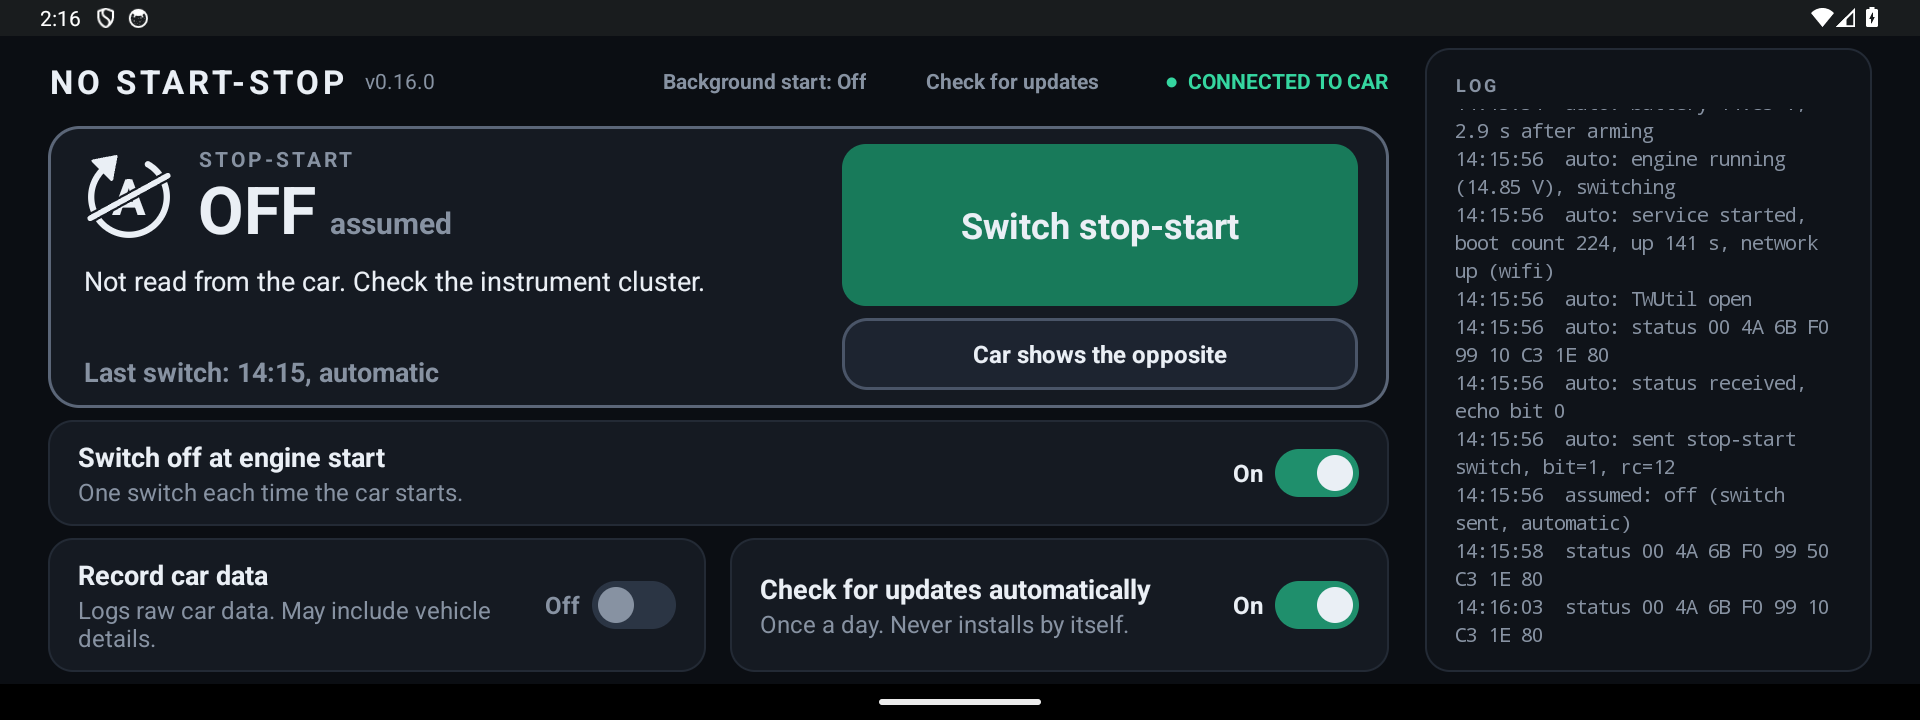
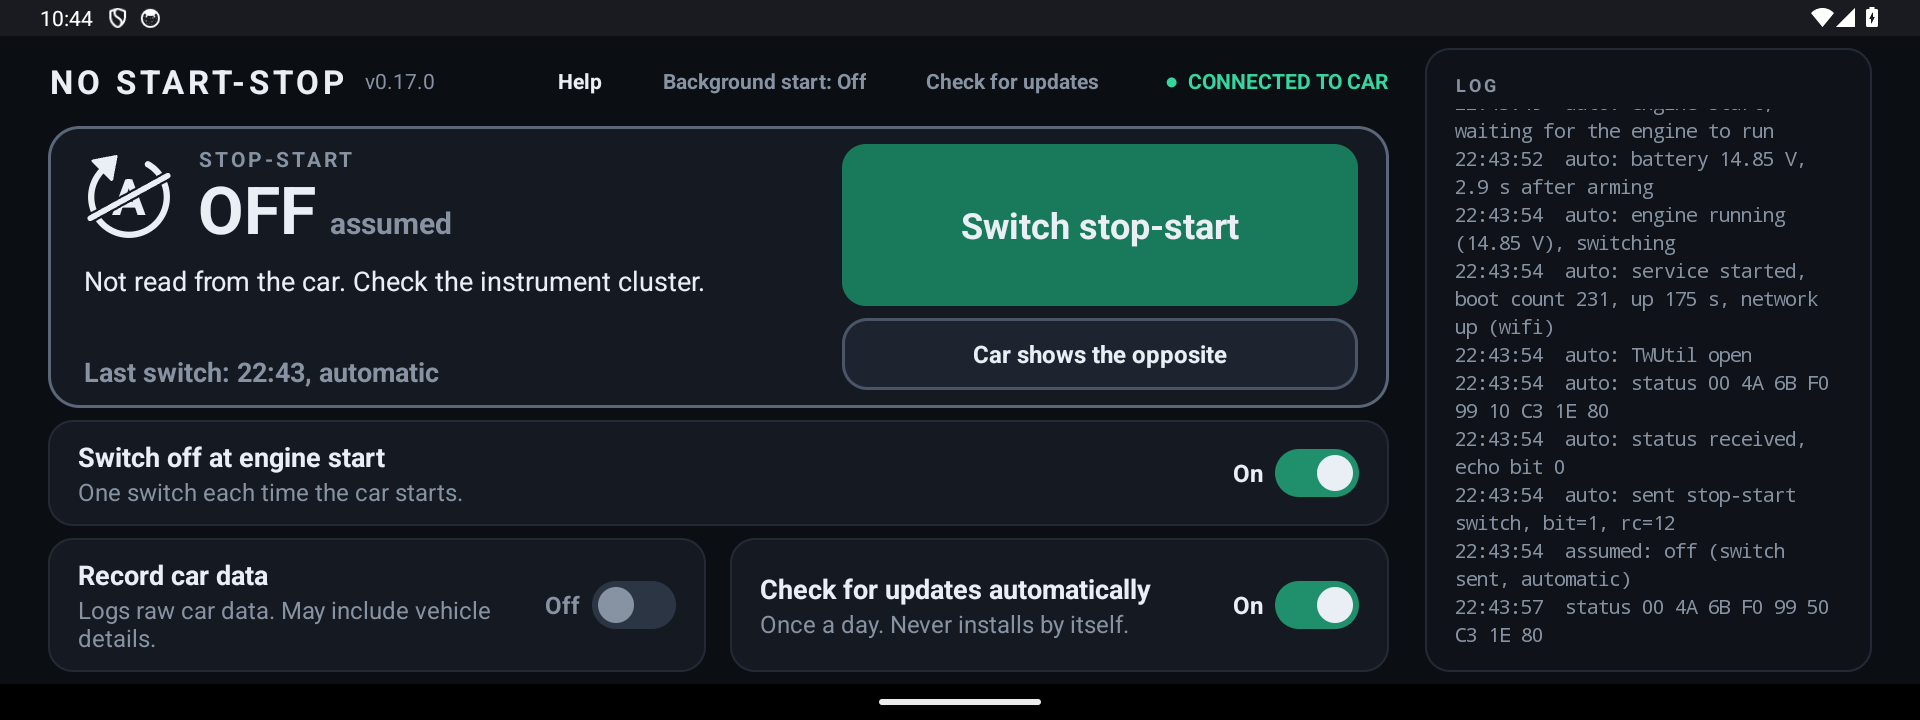
Add a Help screen that explains the controls and the status lines

diff --git a/src/com/furgo/nostartstop/HelpActivity.java b/src/com/furgo/nostartstop/HelpActivity.java
@@ -1,0 +1,255 @@
+package com.furgo.nostartstop;
+
+import android.app.Activity;
+import android.graphics.Typeface;
+import android.graphics.drawable.GradientDrawable;
+import android.os.Bundle;
+import android.util.TypedValue;
+import android.view.Gravity;
+import android.view.View;
+import android.view.Window;
+import android.widget.FrameLayout;
+import android.widget.LinearLayout;
+import android.widget.ScrollView;
+import android.widget.TextView;
+
+import java.util.Locale;
+
+/** What the controls and the status lines of the main screen mean. Text only, readable with no network. */
+public class HelpActivity extends Activity {
+    private static final int BG = 0xFF0B0E13;
+    private static final int CARD = 0xFF151A22;
+    private static final int CARD_EDGE = 0xFF232A35;
+    private static final int TEXT = 0xFFEAEFF5;
+    private static final int MUTED = 0xFF8792A2;
+    private static final int ACCENT = 0xFF35D6A0;
+    private static final int WARN = 0xFFFFB02E;
+    private static final int OFF_EDGE = 0xFF5B6678;
+    private static final int NEUTRAL = 0xFF1D2430;
+    private static final int NARROW_DP = 900;
+
+    private float density;
+    private boolean narrow;
+
+    @Override
+    protected void onCreate(Bundle savedInstanceState) {
+        super.onCreate(savedInstanceState);
+        requestWindowFeature(Window.FEATURE_NO_TITLE);
+        density = getResources().getDisplayMetrics().density;
+        narrow = getResources().getConfiguration().screenWidthDp < NARROW_DP;
+        setContentView(build());
+    }
+
+    private View build() {
+        LinearLayout page = new LinearLayout(this);
+        page.setOrientation(LinearLayout.VERTICAL);
+        page.setPadding(dp(narrow ? 16 : 32), dp(8), dp(narrow ? 16 : 32), dp(16));
+
+        LinearLayout header = new LinearLayout(this);
+        header.setGravity(Gravity.CENTER_VERTICAL);
+        header.setMinimumHeight(dp(44));
+        TextView title = text("HELP", 22, TEXT, true);
+        title.setLetterSpacing(0.12f);
+        header.addView(title, new LinearLayout.LayoutParams(0, -2, 1f));
+        TextView close = text("Close", 16, TEXT, true);
+        close.setGravity(Gravity.CENTER);
+        close.setPadding(dp(28), 0, dp(28), 0);
+        close.setBackgroundDrawable(shape(NEUTRAL, 16, 2, OFF_EDGE));
+        close.setOnClickListener(new View.OnClickListener() {
+            @Override
+            public void onClick(View v) {
+                finish();
+            }
+        });
+        header.addView(close, new LinearLayout.LayoutParams(-2, dp(48)));
+        page.addView(header, new LinearLayout.LayoutParams(-1, -2));
+
+        LinearLayout first = column();
+        LinearLayout second = narrow ? first : column();
+        stateCard(first);
+        backgroundStart(first);
+        if (Telemetry.configured()) diagnostics(second);
+        troubleshooting(second);
+
+        if (narrow) {
+            page.addView(first, new LinearLayout.LayoutParams(-1, -2));
+        } else {
+            LinearLayout columns = new LinearLayout(this);
+            columns.addView(first, new LinearLayout.LayoutParams(0, -2, 1f));
+            LinearLayout.LayoutParams secondLp = new LinearLayout.LayoutParams(0, -2, 1f);
+            secondLp.leftMargin = dp(24);
+            columns.addView(second, secondLp);
+            page.addView(columns, new LinearLayout.LayoutParams(-1, -2));
+        }
+
+        final ScrollView scroll = new ScrollView(this);
+        scroll.setBackgroundColor(BG);
+        scroll.addView(page, new FrameLayout.LayoutParams(-1, -2));
+        // The window's real width decides: split screen does not always come with a new configuration.
+        scroll.addOnLayoutChangeListener(new View.OnLayoutChangeListener() {
+            @Override
+            public void onLayoutChange(View v, int l, int t, int r, int b, int ol, int ot, int or, int ob) {
+                if (r > l && (r - l < dp(NARROW_DP)) != narrow) {
+                    narrow = !narrow;
+                    scroll.post(new Runnable() {
+                        @Override
+                        public void run() {
+                            if (!isFinishing()) setContentView(build());
+                        }
+                    });
+                }
+            }
+        });
+        return scroll;
+    }
+
+    private void stateCard(LinearLayout column) {
+        LinearLayout card = card(column, "Stop-start card");
+        para(card, "The car does not report whether stop-start is on. The app works it out: the car turns stop-start on "
+                + "at every engine start, and each switch sent flips it. That is why the card says \"assumed\". "
+                + "The instrument cluster is always right.");
+        item(card, "ON / OFF", "What the app assumes.");
+        item(card, "UNKNOWN", "The app did not follow the ignition: Switch off at engine start is off, the ignition "
+                + "was switched off, the head unit restarted, or the app gets no power messages from the head unit.");
+        item(card, "Switch stop-start", "Sends one switch to the car, the same command as the car's own menu. Check "
+                + "the instrument cluster after it.");
+        item(card, "Started / Stopped", "Shown while the state is unknown. Tap what the instrument cluster shows: "
+                + "Started if stop-start is on, Stopped if it is off. Sends nothing to the car. Greyed out while the app "
+                + "cannot follow the ignition.");
+        item(card, "Car shows the opposite", "Tap it when the instrument cluster disagrees with the card. It flips "
+                + "the shown state and writes a line to the log, up to a daily limit. Sends nothing to the car.");
+    }
+
+    private void backgroundStart(LinearLayout column) {
+        LinearLayout card = card(column, "Background start");
+        para(card, "Lets Android start the app without its screen, when the head unit powers on and after it stopped "
+                + "the app. Switch off at engine start then also works when another app was on screen.");
+        item(card, "Turn it on", "Tap Background start at the top, then Open settings, and allow notification access "
+                + "for No Start-Stop. The app reads no notification; Android starts apps that have this access.");
+        item(card, "What it does then", "A start in the background sends nothing by itself. The app sends its "
+                + "switch after the next engine start it sees.");
+        item(card, "Check that it works", "After a drive where you did not open the app, the log shows "
+                + "\"listener: connected\" and \"watch: service started (by the notification listener)\". Without "
+                + "those lines the head unit does not restart the app: open the app before you drive.");
+        item(card, "\"This head unit does not allow a background start.\"", "Android 10 and older do not give "
+                + "notification access on low-memory units.");
+    }
+
+    private void diagnostics(LinearLayout column) {
+        LinearLayout card = card(column, "Diagnostics line");
+        para(card, "The line under the log shows what happens to the log lines while Share diagnostics is on. "
+                + "Lines are stored on the head unit until there is a network, then sent to the developer.");
+        state(card, 0, "Diagnostics off", "Nothing is stored for sending and nothing is sent.");
+        state(card, ACCENT, "Diagnostics on, nothing waiting", "Nothing was sent since the app started.");
+        state(card, MUTED, "3 lines waiting to send", "They go out in the next batch, a few seconds later.");
+        state(card, ACCENT, "Sending 3 lines…", "A request is on its way. The dot pulses.");
+        state(card, ACCENT, "Sending: 500 of 1240 lines", "A backlog goes out in requests of up to 500 lines. "
+                + "The bar above the line fills as they go.");
+        state(card, ACCENT, "Sent 3 lines at 14:32", "The last batch went out. Then: All sent at 14:32.");
+        state(card, WARN, "Send failed, 1240 lines from 3 days waiting", "No network, or the upload failed. The "
+                + "lines stay stored and go out at the next try. Up to 30 days or 5 MB are kept; past that the "
+                + "oldest days are dropped.");
+    }
+
+    private void troubleshooting(LinearLayout column) {
+        LinearLayout card = card(column, "If something is wrong");
+        item(card, "\"This app may be harmful\" when installing or updating", "Google Play Protect shows this for "
+                + "apps it does not know; this one is not on Google Play. Tap Install anyway. If an update stopped "
+                + "there, tap Install again. To stop the prompt, turn off Scan apps with Play Protect in the Play Store.");
+        item(card, "NO LINK TO CAR", "The app cannot reach the head unit's car interface. The switch button is grey "
+                + "and nothing is sent. It only works on Topway head units.");
+        item(card, "\"No answer from the car.\"", "The switch was sent but not confirmed within 3 seconds. Check the "
+                + "instrument cluster before you tap again: it may have worked. With \"Nothing sent.\" after it, "
+                + "the car gave no status in time and no switch went out.");
+        item(card, "Nothing happens at engine start", "Check that Switch off at engine start is on, and that the app "
+                + "was running: open it once and leave it on screen when you switch the ignition off, or turn "
+                + "Background start on. The log shows \"wake\" and \"auto:\" lines when the app saw the engine start.");
+        item(card, "Stop-start is on though the card says OFF", "Tap Car shows the opposite, then Switch stop-start "
+                + "once.");
+    }
+
+    private LinearLayout column() {
+        LinearLayout c = new LinearLayout(this);
+        c.setOrientation(LinearLayout.VERTICAL);
+        return c;
+    }
+
+    private LinearLayout card(LinearLayout column, String title) {
+        LinearLayout card = new LinearLayout(this);
+        card.setOrientation(LinearLayout.VERTICAL);
+        card.setPadding(dp(24), dp(16), dp(24), dp(20));
+        card.setBackgroundDrawable(shape(CARD, 16, 1, CARD_EDGE));
+        TextView t = text(title.toUpperCase(Locale.ROOT), 13, MUTED, true);
+        t.setLetterSpacing(0.14f);
+        card.addView(t);
+        LinearLayout.LayoutParams lp = new LinearLayout.LayoutParams(-1, -2);
+        lp.topMargin = dp(8);
+        column.addView(card, lp);
+        return card;
+    }
+
+    private void para(LinearLayout card, String body) {
+        TextView v = text(body, 16, TEXT, false);
+        v.setLineSpacing(0, 1.15f);
+        LinearLayout.LayoutParams lp = new LinearLayout.LayoutParams(-1, -2);
+        lp.topMargin = dp(8);
+        card.addView(v, lp);
+    }
+
+    private void item(LinearLayout card, String name, String body) {
+        LinearLayout.LayoutParams nameLp = new LinearLayout.LayoutParams(-1, -2);
+        nameLp.topMargin = dp(14);
+        card.addView(text(name, 16, TEXT, true), nameLp);
+        TextView v = text(body, 15, MUTED, false);
+        v.setLineSpacing(0, 1.15f);
+        LinearLayout.LayoutParams lp = new LinearLayout.LayoutParams(-1, -2);
+        lp.topMargin = dp(2);
+        card.addView(v, lp);
+    }
+
+    /** One state of the diagnostics line, drawn as on the main screen; dot 0 is the ring shown while sharing is off. */
+    private void state(LinearLayout card, int dot, String line, String body) {
+        LinearLayout row = new LinearLayout(this);
+        row.setGravity(Gravity.CENTER_VERTICAL);
+        View d = new View(this);
+        GradientDrawable shape = new GradientDrawable();
+        shape.setShape(GradientDrawable.OVAL);
+        if (dot == 0) shape.setStroke(dp(1.5f), OFF_EDGE);
+        else shape.setColor(dot);
+        d.setBackgroundDrawable(shape);
+        row.addView(d, new LinearLayout.LayoutParams(dp(10), dp(10)));
+        LinearLayout.LayoutParams lineLp = new LinearLayout.LayoutParams(0, -2, 1f);
+        lineLp.leftMargin = dp(10);
+        row.addView(text(line, 16, TEXT, true), lineLp);
+        LinearLayout.LayoutParams rowLp = new LinearLayout.LayoutParams(-1, -2);
+        rowLp.topMargin = dp(14);
+        card.addView(row, rowLp);
+        TextView v = text(body, 15, MUTED, false);
+        v.setLineSpacing(0, 1.15f);
+        LinearLayout.LayoutParams lp = new LinearLayout.LayoutParams(-1, -2);
+        lp.topMargin = dp(2);
+        lp.leftMargin = dp(20);
+        card.addView(v, lp);
+    }
+
+    private TextView text(String s, float sp, int color, boolean bold) {
+        TextView v = new TextView(this);
+        v.setText(s);
+        v.setTextSize(TypedValue.COMPLEX_UNIT_SP, sp);
+        v.setTextColor(color);
+        v.setTypeface(bold ? Typeface.DEFAULT_BOLD : Typeface.DEFAULT);
+        return v;
+    }
+
+    private GradientDrawable shape(int fill, int radiusDp, int strokeDp, int stroke) {
+        GradientDrawable d = new GradientDrawable();
+        d.setColor(fill);
+        d.setCornerRadius(dp(radiusDp));
+        if (strokeDp > 0) d.setStroke(dp(strokeDp), stroke);
+        return d;
+    }
+
+    private int dp(float v) {
+        return Math.round(v * density);
+    }
+}

diff --git a/src/com/furgo/nostartstop/MainActivity.java b/src/com/furgo/nostartstop/MainActivity.java
@@ -1145,6 +1145,16 @@ public class MainActivity extends Activity implements CanBox.Listener {
                 onStartTap();
             }
         });
+        TextView helpView = text("Help", 14, TEXT, true);
+        helpView.setGravity(Gravity.CENTER);
+        helpView.setPadding(dp(20), 0, dp(20), 0);
+        helpView.setBackgroundDrawable(pressable(0, NEUTRAL_PRESSED, 0));
+        helpView.setOnClickListener(new View.OnClickListener() {
+            @Override
+            public void onClick(View view) {
+                startActivity(new Intent(MainActivity.this, HelpActivity.class));
+            }
+        });
         linkView = text("", 14, MUTED, true);
         LinearLayout.LayoutParams updateLp = new LinearLayout.LayoutParams(-2, dp(36));
         if (narrow) {
@@ -1156,9 +1166,11 @@ public class MainActivity extends Activity implements CanBox.Listener {
             left.addView(second, new LinearLayout.LayoutParams(-1, -2));
             LinearLayout third = new LinearLayout(this);
             third.setGravity(Gravity.CENTER_VERTICAL | Gravity.RIGHT);
+            third.addView(helpView, new LinearLayout.LayoutParams(-2, dp(36)));
             third.addView(startView, new LinearLayout.LayoutParams(-2, dp(36)));
             left.addView(third, new LinearLayout.LayoutParams(-1, -2));
         } else {
+            header.addView(helpView, new LinearLayout.LayoutParams(-2, dp(36)));
             header.addView(startView, new LinearLayout.LayoutParams(-2, dp(36)));
             updateLp.rightMargin = dp(24);
             header.addView(updateView, updateLp);

diff --git a/README.md b/README.md
@@ -50,10 +50,15 @@ With no network it shows how many lines, from how many days, are stored for the 
 
 ![Line under the log: send failed, 2466 lines from 3 days waiting](docs/waiting.png)
 
+**Help** in the header opens a screen that explains the stop-start card, **Background start**, the diagnostics line and what to check when something is wrong:
+
+![Help screen](docs/help.png)
+
 ## What it does
 
 - **Switch stop-start**: one button that sends one switch command to the car. The command is a toggle: each tap turns stop-start off if it was on, and on if it was off.
 - **Assumed state**: the car does not report whether stop-start is on or off, so the card shows the state the app assumes, as a large **OFF** (white), **ON** (green) or **UNKNOWN** (grey). Beside the word is the stop-start symbol, the "A" in a circular arrow: struck through for OFF, plain for ON, replaced by a dashed ring with "?" for UNKNOWN. OFF and ON carry the word "assumed"; the card says it is not read from the car. The instrument cluster shows a message when stop-start is switched off or on; look there to be sure. See [the assumed state](#the-assumed-stop-start-state).
+- **Help**: opens a screen, readable with no network, that explains the stop-start card and its buttons, **Background start** and how to check that it works, each state of the diagnostics line (only in builds that can share diagnostics), and what to do about the Play Protect prompt, no link, no answer from the car and no switch at engine start.
 - **Split screen**: in a window narrower than 900 dp the screen is one scrolling column: header, stop-start card with its buttons below the text, one setting per row, then the log.
 - **Started** / **Stopped**: shown while the state is UNKNOWN. Read the instrument cluster and tap **Started** if stop-start is on, **Stopped** if it is off. They carry the colours of the state they set: **Started** green like ON, **Stopped** white like OFF. The card then shows that state as assumed and says "Set by hand. Nothing sent to the car." Greyed out while **Switch off at engine start** is off or its background service has no link to the head unit, because then nothing would end the state at the next ignition off.
 - **Car shows the opposite**: tap it when the instrument cluster disagrees with the assumed state. It writes one line to the log with what led to the assumed state and flips the shown state. It sends nothing to the car. While the state is unknown, **Started** and **Stopped** take its place. It is greyed out while a tap's command is being sent, while **Switch off at engine start** is sending ("Switching…"), and for 2 seconds after each report. The card then says "Noted in the log. Nothing sent to the car.", or, past the daily limit of report lines, "Changed, but not logged: too many reports today. Nothing sent to the car."
@@ -160,7 +165,7 @@ It is not verified on the van yet. It is a model, not a reading from the car. It
 - **Switch off at engine start does nothing**: open the app once after installing, and leave it on screen when you switch the ignition off. Then check the log for `wake` and `auto:` lines after an engine start; without a `wake` line the app did not notice the ignition on or the engine start. `auto: battery …` lines show the voltages it saw while waiting.
 - **Stop-start is on after an engine start with Switch off at engine start on**: the app probably was not running at that engine start, or the car ignored the switch. If the card says **OFF** (assumed), tap **Car shows the opposite** first so the log records it. Then tap **Switch stop-start** once and share the log.
 - **"UNKNOWN"** on the stop-start card: the app has not seen the ignition come on or an engine start since the last ignition off or head unit reboot, the automatic switch is off, or the background service lost the head unit. Check the instrument cluster and tap **Started** or **Stopped**. See [the assumed state](#the-assumed-stop-start-state).
-- **"This app may be harmful" when installing or updating**: Google Play Protect shows this for apps it does not know. The APK is not on Google Play, installs its own updates and starts at boot, which is what Play Protect flags. The release APK is signed (APK signature schemes v1 to v3) with the same key every time. Tap **Install anyway**. To stop the prompt, turn off **Scan apps with Play Protect** in the Play Store's Play Protect settings on the head unit.
+- **"This app may be harmful" when installing or updating**: Google Play Protect shows this for apps it does not know. The APK is not on Google Play, installs its own updates and starts at boot, which is what Play Protect flags. The release APK is signed (APK signature schemes v1 to v3) with the same key every time. Tap **Install anyway**. If an update stopped at the prompt (the log shows `install failed (3): INSTALL_FAILED_VERIFICATION_FAILURE`), tap **Install** again. To stop the prompt, turn off **Scan apps with Play Protect** in the Play Store's Play Protect settings on the head unit.
 
 ## Status
 
